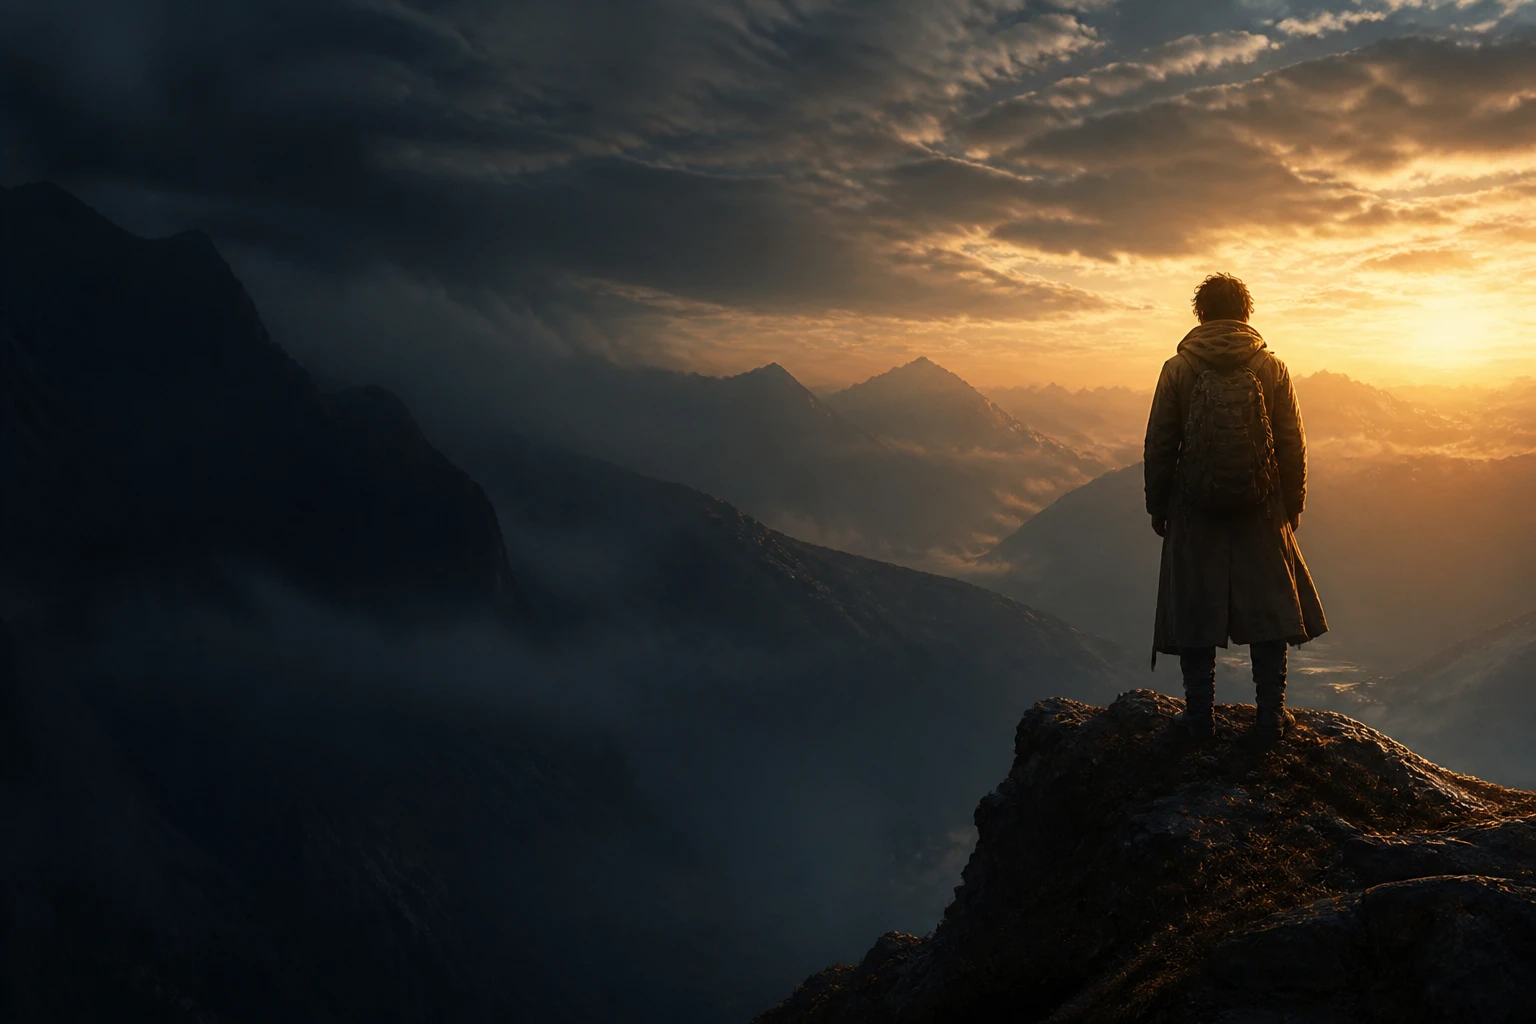
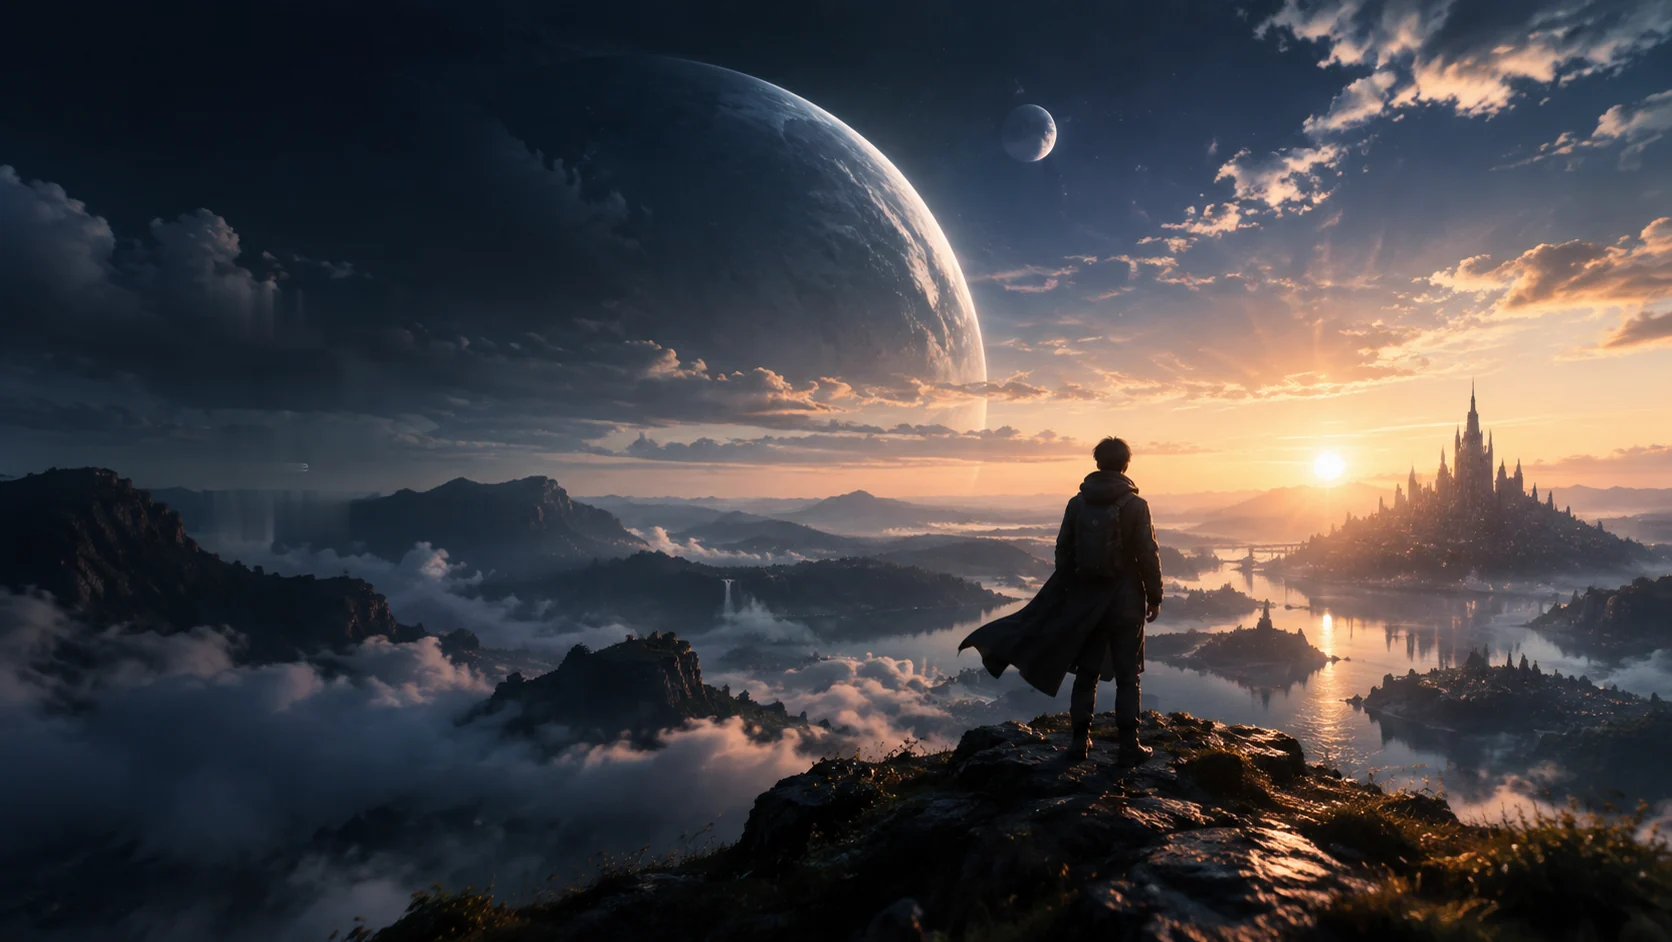
feat(kinotv): 首页按新 UI 层改稿：字标 Hero、封面标题层级、输入卡表面
- Hero 文案改成参考稿的字标结构：眉标 KINOTV AGENT（11px / .35em / white40）、
  主标题换成「KinoTV Agent」细体 clamp 到 76px、Agent 压到 60% 灰、
  副标题换成短标语「用想象力，生成属于你的电影」（19px / .12em 宽字距）。
- 换 KinoTV 专属 Hero 底图，构图按参考稿锁：人物在中右、巨型行星与城堡同框，
  object-position 50% 58%。
- 输入卡表面按参考稿收到 #111923/.45、blur 40px、描边 white13、大投影。
- 灵感卡：主推荐标题 22 → 28px，小卡 14 → 18px 且允许折两行，字重从 650 降到 500；
  顶部小标 10px/.1em → 9px/.25em，描述限宽 430 并刷成 white45。
- 左侧导航未改动。

diff --git a/web/src/styles/globals.css b/web/src/styles/globals.css
@@ -19785,9 +19785,9 @@ html:not(.dark) .creation-home .creation-user-message-copy-wrap { box-shadow: 0 
     width: 100%;
     height: 100%;
     object-fit: cover;
-    /* 构图：人物在右三分之一、日出在右侧，左半边是暗岩石与雾，正好留给标题压字。
-       横幅只有 3.4:1，纵向要裁掉大半，靠百分比把地平线锁在画面中部偏上。 */
-    object-position: 50% 30%;
+    /* 构图：人物在中右、巨型行星与银河在上半，左半边是暗岩石与雾，留给标题压字。
+       横幅只有 3.4:1，纵向要裁掉一半，靠百分比把人物和行星同时锁进画面。 */
+    object-position: 50% 58%;
     user-select: none;
 }
 /* 横幅是照片，压字与压字底固定用深色渐变，不跟随浅色/深色主题翻转：
@@ -19816,7 +19816,7 @@ html:not(.dark) .creation-home .creation-user-message-copy-wrap { box-shadow: 0 
     max-width: none !important;
     flex-direction: column;
     justify-content: center;
-    gap: 12px;
+    gap: 18px;
     padding: 96px 24px 88px;
 }
 .app-user-workspace .creation-home-hero-brand {
@@ -19825,36 +19825,38 @@ html:not(.dark) .creation-home .creation-user-message-copy-wrap { box-shadow: 0 
     margin: 0 !important;
     align-items: baseline;
     gap: 7px;
-    color: rgba(255, 255, 255, .72);
-    font-size: 13px;
+    color: rgba(255, 255, 255, .4);
+    font-size: 11px;
     font-weight: 500;
-    letter-spacing: .22em;
+    letter-spacing: .35em;
     line-height: 1.1;
     text-transform: uppercase;
 }
 .app-user-workspace .creation-home-hero-brand em {
-    background: linear-gradient(96deg, #a08cff, #22d3ee);
-    -webkit-background-clip: text;
-    background-clip: text;
-    color: transparent;
+    /* 参考稿眉标是一行等重的字：Agent 不再单独上渐变，紫色只留给主按钮。 */
+    color: inherit;
     font-style: normal;
 }
 .app-user-workspace .creation-home-hero h1 {
     margin: 0 !important;
     max-width: 22ch;
     color: #fff !important;
-    font-size: clamp(30px, 4vw, 58px) !important;
+    font-size: clamp(38px, 5.4vw, 76px) !important;
     /* 这种页面靠"细"出高级感，粗黑体一眼就是后台模板。 */
     font-weight: 300 !important;
-    letter-spacing: -.03em !important;
-    line-height: 1.14 !important;
+    letter-spacing: -.045em !important;
+    line-height: .95 !important;
     text-shadow: 0 2px 30px rgba(0, 0, 0, .45);
 }
+/* Agent 压一级灰度，字标读起来是"品牌 + 能力"，不是一整个产品名。 */
+.app-user-workspace .creation-home-hero h1 span { color: rgba(255, 255, 255, .6); }
 .app-user-workspace .creation-home-hero-sub {
-    margin: 0 !important;
+    margin: 6px 0 0 !important;
     max-width: 40ch;
-    color: rgba(255, 255, 255, .65) !important;
-    font-size: 15px !important;
+    color: rgba(255, 255, 255, .6) !important;
+    font-size: 19px !important;
+    font-weight: 300 !important;
+    letter-spacing: .12em !important;
     line-height: 1.7 !important;
     text-shadow: 0 1px 18px rgba(0, 0, 0, .5);
 }
@@ -19862,8 +19864,8 @@ html:not(.dark) .creation-home .creation-user-message-copy-wrap { box-shadow: 0 
     .app-user-workspace .creation-home-hero { min-height: 300px; }
     .app-user-workspace .creation-home-hero-copy { padding: 72px 18px 64px; }
     .app-user-workspace .creation-home-hero-brand { font-size: 11px; letter-spacing: .16em; }
-    .app-user-workspace .creation-home-hero h1 { font-size: 26px !important; }
-    .app-user-workspace .creation-home-hero-sub { font-size: 13px !important; }
+    .app-user-workspace .creation-home-hero h1 { font-size: 30px !important; }
+    .app-user-workspace .creation-home-hero-sub { font-size: 14px !important; }
 }
 .creation-launchpad {
     width: min(100%, 960px);
@@ -19877,7 +19879,7 @@ html:not(.dark) .creation-home .creation-user-message-copy-wrap { box-shadow: 0 
    沿用主题表面色会在浅色主题下把画面切一刀。弹层走 portal，仍是主题色。 */
 .app-user-workspace .creation-home .creation-empty-composer {
     --creation-submit-gradient: linear-gradient(142deg, #7c5cff 0%, #4f7dff 55%, #22b6ff 100%);
-    --user-surface: rgba(20, 25, 35, .55);
+    --user-surface: rgba(17, 25, 35, .45);
     --user-surface-muted: rgba(255, 255, 255, .09);
     --user-surface-hover: rgba(255, 255, 255, .16);
     --user-border: rgba(255, 255, 255, .14);
@@ -19893,14 +19895,14 @@ html:not(.dark) .creation-home .creation-user-message-copy-wrap { box-shadow: 0 
 }
 .app-user-workspace .creation-home .creation-empty-composer .creation-composer-shell {
     border-radius: 26px !important;
-    backdrop-filter: blur(30px) saturate(150%);
-    -webkit-backdrop-filter: blur(30px) saturate(150%);
-    box-shadow: 0 30px 70px rgba(0, 0, 0, .5) !important;
+    backdrop-filter: blur(40px) saturate(150%);
+    -webkit-backdrop-filter: blur(40px) saturate(150%);
+    box-shadow: 0 30px 100px rgba(0, 0, 0, .35) !important;
 }
 .app-user-workspace .creation-home .creation-empty-composer .creation-chat-composer {
-    /* 表面色只由外壳那一层画：内外两层各刷一遍 .55，叠起来就是 .8 的黑板，
+    /* 表面色只由外壳那一层画：内外两层各刷一遍，叠起来就是一块黑板，
        毛玻璃的透光全被吃掉了。 */
-    border: 1px solid rgba(255, 255, 255, .12) !important;
+    border: 1px solid rgba(255, 255, 255, .13) !important;
     border-radius: 25px !important;
     background: transparent !important;
 }
@@ -20080,7 +20082,8 @@ html:not(.dark) .creation-home .creation-user-message-copy-wrap { box-shadow: 0 
 }
 .app-user-workspace .creation-featured-more:hover { color: var(--user-ink); }
 .app-user-workspace .creation-featured-more svg { width: 14px; height: 14px; }
-.app-user-workspace .creation-featured-heading span { color: var(--user-ink-soft) !important; font-size: 11px !important; letter-spacing: .24em !important; text-transform: uppercase; }
+/* 栏目小标（INSPIRATION）按参考稿：10px、0.35em 字距、压到 white/28。 */
+.app-user-workspace .creation-featured-heading span { color: rgba(255, 255, 255, .28) !important; font-size: 10px !important; letter-spacing: .35em !important; text-transform: uppercase; }
 .app-user-workspace .creation-featured-heading h2 { color: var(--user-ink) !important; font-size: 22px !important; letter-spacing: -.025em !important; }
 .app-user-workspace .creation-featured-heading p { color: var(--user-ink-muted) !important; }
 
@@ -20148,12 +20151,20 @@ html:not(.dark) .creation-home .creation-user-message-copy-wrap { box-shadow: 0 
 .app-user-workspace .creation-featured-card:not(.creation-skill-card) .creation-featured-copy em {
     order: -1;
     margin: 0 0 2px !important;
-    color: rgba(255, 255, 255, .58) !important;
-    font-size: 10px !important;
+    color: rgba(255, 255, 255, .45) !important;
+    font-size: 9px !important;
     font-weight: 500;
-    letter-spacing: .1em;
+    letter-spacing: .25em;
+    text-transform: uppercase;
 }
-.app-user-workspace .creation-featured-copy strong { color: #fff !important; }
+.app-user-workspace .creation-featured-copy strong { color: #fff !important; font-weight: 500 !important; }
+.app-user-workspace .creation-featured-card:not(.creation-skill-card):not(.is-featured-hero) .creation-featured-copy strong { font-size: 18px !important; }
+.app-user-workspace .creation-featured-card:not(.creation-skill-card) .creation-featured-copy strong {
+    display: -webkit-box;
+    -webkit-box-orient: vertical;
+    -webkit-line-clamp: 2;
+    white-space: normal !important;
+}
 .app-user-workspace .creation-featured-copy > span { color: rgba(255, 255, 255, .66) !important; }
 .app-user-workspace .creation-featured-card:not(.is-featured-hero):not(.creation-skill-card) .creation-featured-copy > span { display: none; }
 .app-user-workspace .creation-featured-card:not(.creation-skill-card) .creation-inspiration-overlay { inset: 14px 14px auto auto; }
@@ -20166,8 +20177,15 @@ html:not(.dark) .creation-home .creation-user-message-copy-wrap { box-shadow: 0 
 }
 .app-user-workspace .creation-featured-card.is-featured-hero { grid-column: span 2; grid-row: span 2; aspect-ratio: auto; }
 .app-user-workspace .creation-featured-card.is-featured-hero .creation-featured-copy { gap: 7px; padding: 26px 28px 28px !important; }
-.app-user-workspace .creation-featured-card.is-featured-hero .creation-featured-copy strong { font-size: 22px !important; }
-.app-user-workspace .creation-featured-card.is-featured-hero .creation-featured-copy > span { display: block !important; font-size: 13px !important; }
+.app-user-workspace .creation-featured-card.is-featured-hero .creation-featured-copy strong { font-size: 28px !important; }
+.app-user-workspace .creation-featured-card.is-featured-hero .creation-featured-copy > span {
+    display: block !important;
+    max-width: 430px;
+    color: rgba(255, 255, 255, .45) !important;
+    font-size: 13px !important;
+    line-height: 1.85 !important;
+    white-space: normal !important;
+}
 
 /* 对话记录统一成窄而有层次的工作区，不让输入区吞掉首屏。 */
 .app-user-workspace .creation-thread-toolbar,

diff --git a/web/src/pages/create/index.tsx b/web/src/pages/create/index.tsx
@@ -1186,8 +1186,8 @@ export default function CreatePage() {
                                 <img className="creation-home-hero-art" src="/home/hero.webp" alt="" aria-hidden="true" draggable={false} />
                                 <div className="creation-home-hero-copy">
                                     <p className="creation-home-hero-brand"><span>{brandName}</span> <em>Agent</em></p>
-                                    <h1>让你的想象，秒变成电影</h1>
-                                    <p className="creation-home-hero-sub">输入一句话，AI 自动生成分镜、画面、配音与剪辑，一站式完成你的创意视频。</p>
+                                    <h1>{brandName} <span>Agent</span></h1>
+                                    <p className="creation-home-hero-sub">用想象力，生成属于你的电影</p>
                                 </div>
                             </section>
                             <section ref={launchpadRef} className="creation-launchpad" aria-label="开始创作">
